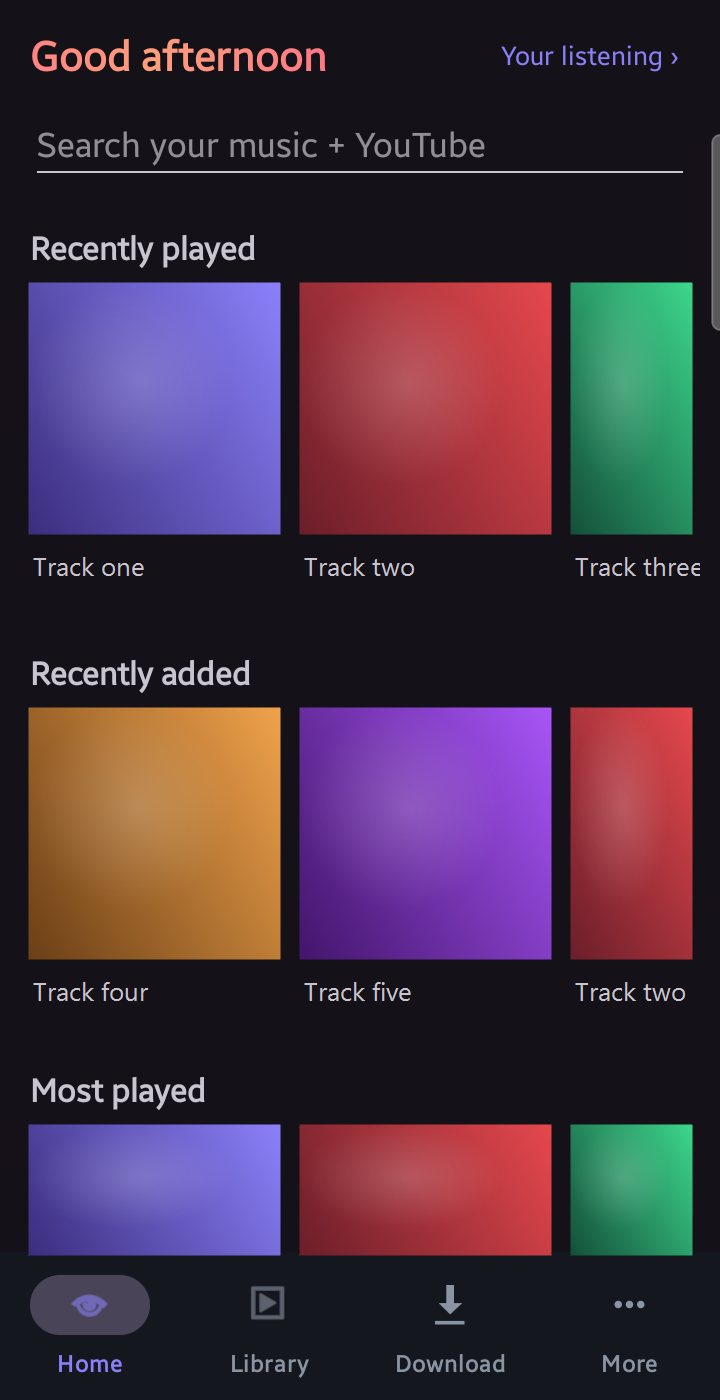
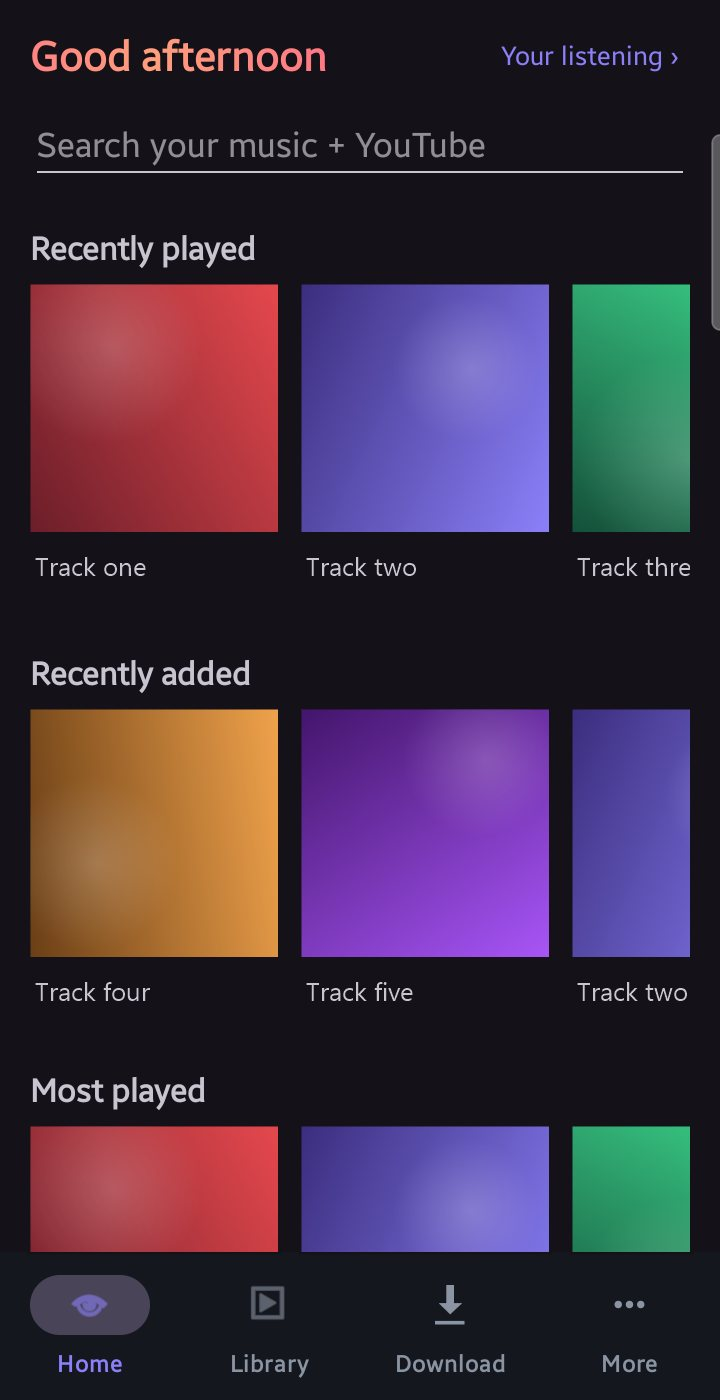
Fix screenshot compositing: true crops, grayscale text AA, matching cover colours; align page captions

diff --git a/tenata/index.html b/tenata/index.html
@@ -627,7 +627,7 @@
 
   .shot .frame {
     position: relative;
-    aspect-ratio: 9 / 18;
+    aspect-ratio: 720 / 1400;   /* matches the source JPEGs, so cover crops nothing */
     border-radius: 22px;
     border: 1px solid var(--line);
     background: var(--card);
@@ -1113,7 +1113,7 @@
         </figure>
         <figure class="shot" data-slot="shot-2.jpg">
           <div class="frame">
-            <img src="shot-2.jpg" alt="Tenata player screen: large artwork, a draggable waveform, playback controls, and rows for lyrics, sleep timer and Up Next." loading="lazy" width="720" height="1400">
+            <img src="shot-2.jpg" alt="Tenata player screen: large artwork, a waveform scrubber, playback controls, and a row of like, speed, sleep timer, lyrics and Up Next actions." loading="lazy" width="720" height="1400">
             <div class="slot-note">Screenshot slot<code>shot-2.jpg</code></div>
           </div>
           <figcaption>Player</figcaption>
@@ -1123,7 +1123,7 @@
             <img src="shot-3.jpg" alt="Tenata download screen: a link field, the five download switches, save folder and quality pickers, and a Download MP3 button." loading="lazy" width="720" height="1400">
             <div class="slot-note">Screenshot slot<code>shot-3.jpg</code></div>
           </div>
-          <figcaption>Downloads</figcaption>
+          <figcaption>Download</figcaption>
         </figure>
       </div>
     </div>
